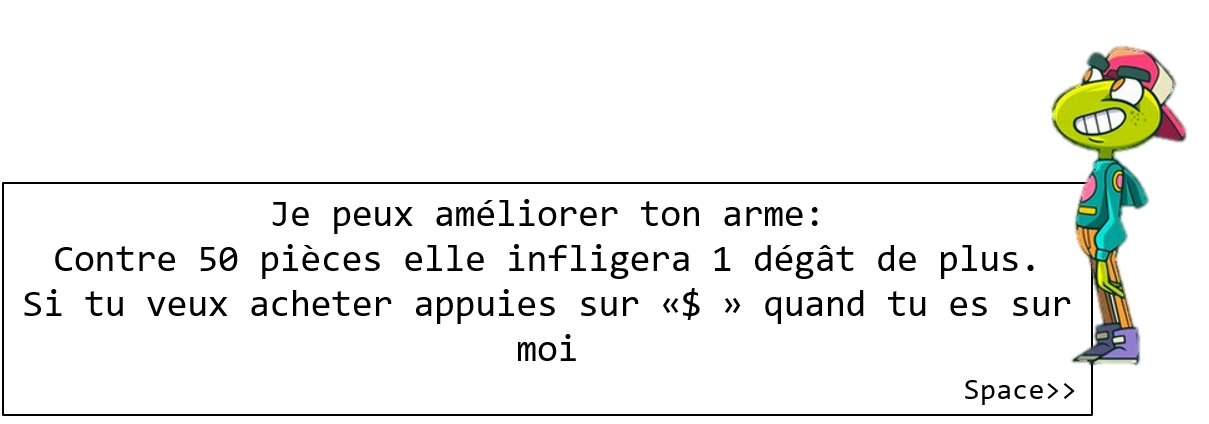
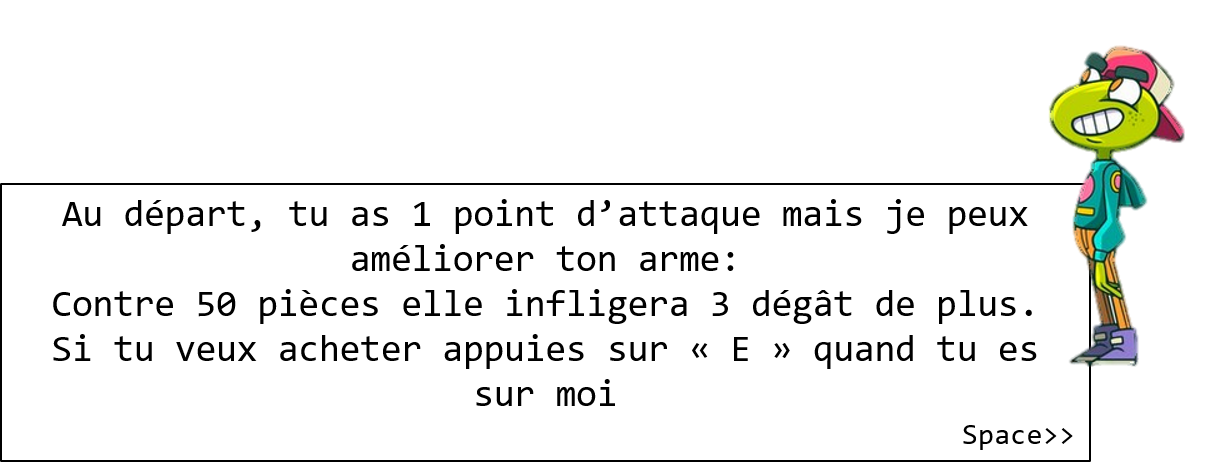
jeu fini

Changed region(s): [[0.0, 0.092, 0.9809, 1.0]]

diff --git a/src/js/selection.js b/src/js/selection.js
@@ -6,6 +6,8 @@ var boutonAcheter;
 var arme;
 var grenouille;
 var toucan;
+var lion;
+var loup;
 var hist;
 var text_niv;
 
@@ -40,6 +42,8 @@ export default class selection extends Phaser.Scene {
       frameHeight: 192
     });
     this.load.image("toucan", "src/assets/imgtoucan.png");
+    this.load.image("lion", "src/assets/lion.png");
+    this.load.image("loup", "src/assets/loup.png");
     this.load.image('img_porteboss', 'src/assets/boss_door.png');
     this.load.image("arme", "src/assets/shuriken.png");
     this.load.spritesheet('img_porte2', 'src/assets/porte_niveaux.png', {
@@ -55,6 +59,8 @@ export default class selection extends Phaser.Scene {
     // chargement de la carte
     this.load.tilemapTiledJSON("carte", "src/assets/carte_base.tmj");
     this.load.image("text_gren", "src/assets/img_text_gren.png");
+    this.load.image("text_lion", "src/assets/img_text_lion.png");
+    this.load.image("text_loup", "src/assets/img_text_loup.png");
 
     //histoire
     this.load.image("text_hist1", "src/assets/img_hist1.png");
@@ -109,6 +115,8 @@ export default class selection extends Phaser.Scene {
 
     grenouille = this.physics.add.staticSprite(1408, 1184, 'img_gren_saut');
     toucan = this.physics.add.staticSprite(608, 2048, "toucan");
+    lion = this.physics.add.staticSprite(704, 448, "lion");
+    loup = this.physics.add.staticSprite(288, 1152, "loup");
 
     // ajout d'une collision entre le joueur et le calque plateformes
     this.physics.add.collider(player, calque_plateformes);
@@ -192,6 +200,16 @@ export default class selection extends Phaser.Scene {
     this.text_gren.setVisible(false);
     this.text_gren.estVisible = false;
 
+    this.text_lion = this.add.image(800, 500, "text_lion");
+    this.text_lion.setScrollFactor(0);
+    this.text_lion.setVisible(false);
+    this.text_lion.estVisible = false;
+
+    this.text_loup = this.add.image(800, 500, "text_loup");
+    this.text_loup.setScrollFactor(0);
+    this.text_loup.setVisible(false);
+    this.text_loup.estVisible = false;
+
     this.text_hist = this.add.image(800, 500, "text_hist1");
     this.text_hist.setScrollFactor(0);
     hist = 1;
@@ -200,6 +218,7 @@ export default class selection extends Phaser.Scene {
     this.game.config.niveau = 1;
     this.game.config.vie_joueur = 1;
     this.game.config.argent = 0;
+    this.game.config.attaque = 47;
 
     text_niv = this.add.text(910, 1936, "Niveau " + this.game.config.niveau, {
       fontFamily: 'Georgia, "Goudy Bookletter 1911", Times, serif',
@@ -207,6 +226,9 @@ export default class selection extends Phaser.Scene {
     });
     this.time.delayedCall(500, affiche_niv, null, this);
   }
+
+
+
 
   update() {
     fct.deplacement_perso(player, clavier, boutonFeu, arme)
@@ -246,7 +268,7 @@ export default class selection extends Phaser.Scene {
         hist = 7;
       } else if (hist == 7) {
         this.text_hist.setVisible(false);
-        this.time.delayedCall(1125, function(){
+        this.time.delayedCall(1125, function () {
           this.text_hist.estVisible = false
         }, null, this);
       }
@@ -264,9 +286,10 @@ export default class selection extends Phaser.Scene {
           },
           null, this);
       }
-      if (this.physics.overlap(player, toucan) && this.text_hist.estVisible == false){
-        hist=5
-        this.text_hist.estVisible = true;}
+      if (this.physics.overlap(player, toucan) && this.text_hist.estVisible == false) {
+        hist = 5
+        this.text_hist.estVisible = true;
+      }
 
       if (this.physics.overlap(player, grenouille)) {
         if (this.text_gren.estVisible == true) {
@@ -276,16 +299,45 @@ export default class selection extends Phaser.Scene {
           this.text_gren.setVisible(true);
           this.text_gren.estVisible = true;
         }
+      }
+      if (this.physics.overlap(player, lion)) {
+        if (this.text_lion.estVisible == true) {
+          this.text_lion.setVisible(false);
+          this.text_lion.estVisible = false;
+        } else {
+          this.text_lion.setVisible(true);
+          this.text_lion.estVisible = true;
+        }
+      }
+      if (this.physics.overlap(player, loup)) {
+        if (this.text_loup.estVisible == true) {
+          this.text_loup.setVisible(false);
+          this.text_loup.estVisible = false;
+        } else {
+          this.text_loup.setVisible(true);
+          this.text_loup.estVisible = true;
+        }
         //if (this.physics.overlap(player, this.porte2)) this.scene.switch("niveau2");
         //if (this.physics.overlap(player, this.porte3)) this.scene.switch("niveau3");
       }
     }
-      if (Phaser.Input.Keyboard.JustDown(boutonAcheter)) {
-        if (this.physics.overlap(player, grenouille)){
-        console.log("6");
+    if (Phaser.Input.Keyboard.JustDown(boutonAcheter)) {
+      if (this.physics.overlap(player, grenouille)) {
+        if(this.game.config.argent>=50){
+        this.game.config.attaque += 3;
+        this.game.config.argent-=50;
         }
       }
-    
+    }
+    if (Phaser.Input.Keyboard.JustDown(boutonAcheter)) {
+      if (this.physics.overlap(player, loup)) {
+        if(this.game.config.argent>=50){
+        this.game.config.vie_joueur += 3;
+        this.game.config.argent-=50;
+        }
+      }
+    }
+
   }
 }
 
@@ -295,7 +347,7 @@ function saut_grenouille() {
   this.time.delayedCall(1125, saut_grenouille, null, this);
 }
 
-function affiche_niv(){
+function affiche_niv() {
   text_niv.setVisible(false);
   text_niv = this.add.text(910, 1936, "Niveau " + this.game.config.niveau, {
     fontFamily: 'Georgia, "Goudy Bookletter 1911", Times, serif',

diff --git a/src/js/niveauboss.js b/src/js/niveauboss.js
@@ -69,7 +69,7 @@ export default class niveauboss extends Phaser.Scene {
     dragon.setCollideWorldBounds(true);
     dragon.setBounce(0.2);
     dragon.setCollideWorldBounds(true);
-    dragon.pointsVie=10;
+    dragon.pointsVie=100;
 
     this.player = this.physics.add.sprite(128, 525, "img_perso");
     this.player.direction = 'right'; 
@@ -177,7 +177,7 @@ function touchedragon(player, dragon) {
   },
   null, this);
   this.player.pointsVie-=1;
-  if(this.player.pointsVie==0){
+  if(this.player.pointsVie<=0){
   this.physics.pause();
   this.time.delayedCall(3000, fct.revenirabase, null, this)
   this.gameOver = true
@@ -185,8 +185,8 @@ function touchedragon(player, dragon) {
 } 
 
 function attaque_drag ( dragon, arme) {
-  dragon.pointsVie--;
-  if (dragon.pointsVie==0) {
+  dragon.pointsVie -= this.game.config.attaque;
+  if (dragon.pointsVie<=0) {
     dragon.disableBody(true, true); 
     this.scene.switch("victoire");
   }

diff --git a/src/js/niveau2.js b/src/js/niveau2.js
@@ -89,7 +89,8 @@ export default class niveau2 extends Phaser.Scene {
           porte_suivante.anims.play("ouverture_porte");
           this.time.delayedCall(1000,
             function () {
-              this.game.config.niveau=3
+              this.game.config.niveau=3;
+              this.game.config.argent += 200;
               this.scene.switch("selection");
             }, 
          null, this);}

diff --git a/src/js/niveau1.js b/src/js/niveau1.js
@@ -92,6 +92,7 @@ export default class niveau1 extends Phaser.Scene {
         this.time.delayedCall(1000,
           function () {
             this.game.config.niveau = 2
+            this.game.config.argent += 200;
             this.scene.switch("niveau2");
           },
           null, this);
